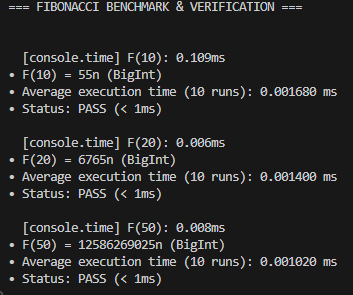
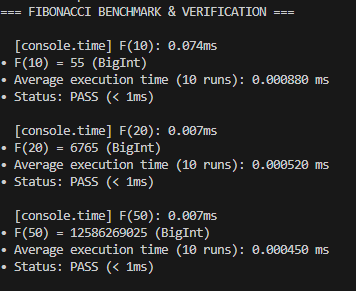
docs(fibonacci): update benchmark screenshot and execution metrics in README

diff --git a/01-tu-duy-lap-trinh/bai-2-fibonacci/README.md b/01-tu-duy-lap-trinh/bai-2-fibonacci/README.md
@@ -26,9 +26,9 @@
 
 | Giá trị $n$ | Kết quả $F(n)$ | `console.time` | Thời gian TB (10 lần) | Yêu cầu đề bài (< 1ms) |
 | :---: | :--- | :---: | :---: | :---: |
-| **$n = 10$** | `55` | $0.109$ ms | $0.001680$ ms | ĐẠT ✅ |
-| **$n = 20$** | `6765` | $0.006$ ms | $0.001400$ ms | ĐẠT ✅ |
-| **$n = 50$** | `12586269025` | $0.008$ ms | $0.001020$ ms | ĐẠT ✅ |
+| **$n = 10$** | `55` | $0.074$ ms | $0.000880$ ms | ĐẠT ✅ |
+| **$n = 20$** | `6765` | $0.007$ ms | $0.000520$ ms | ĐẠT ✅ |
+| **$n = 50$** | `12586269025` | $0.007$ ms | $0.000450$ ms | ĐẠT ✅ |
 
 ### Minh chứng chạy thực tế từ Terminal:
 ![Kết quả chạy benchmark](./image.png)
